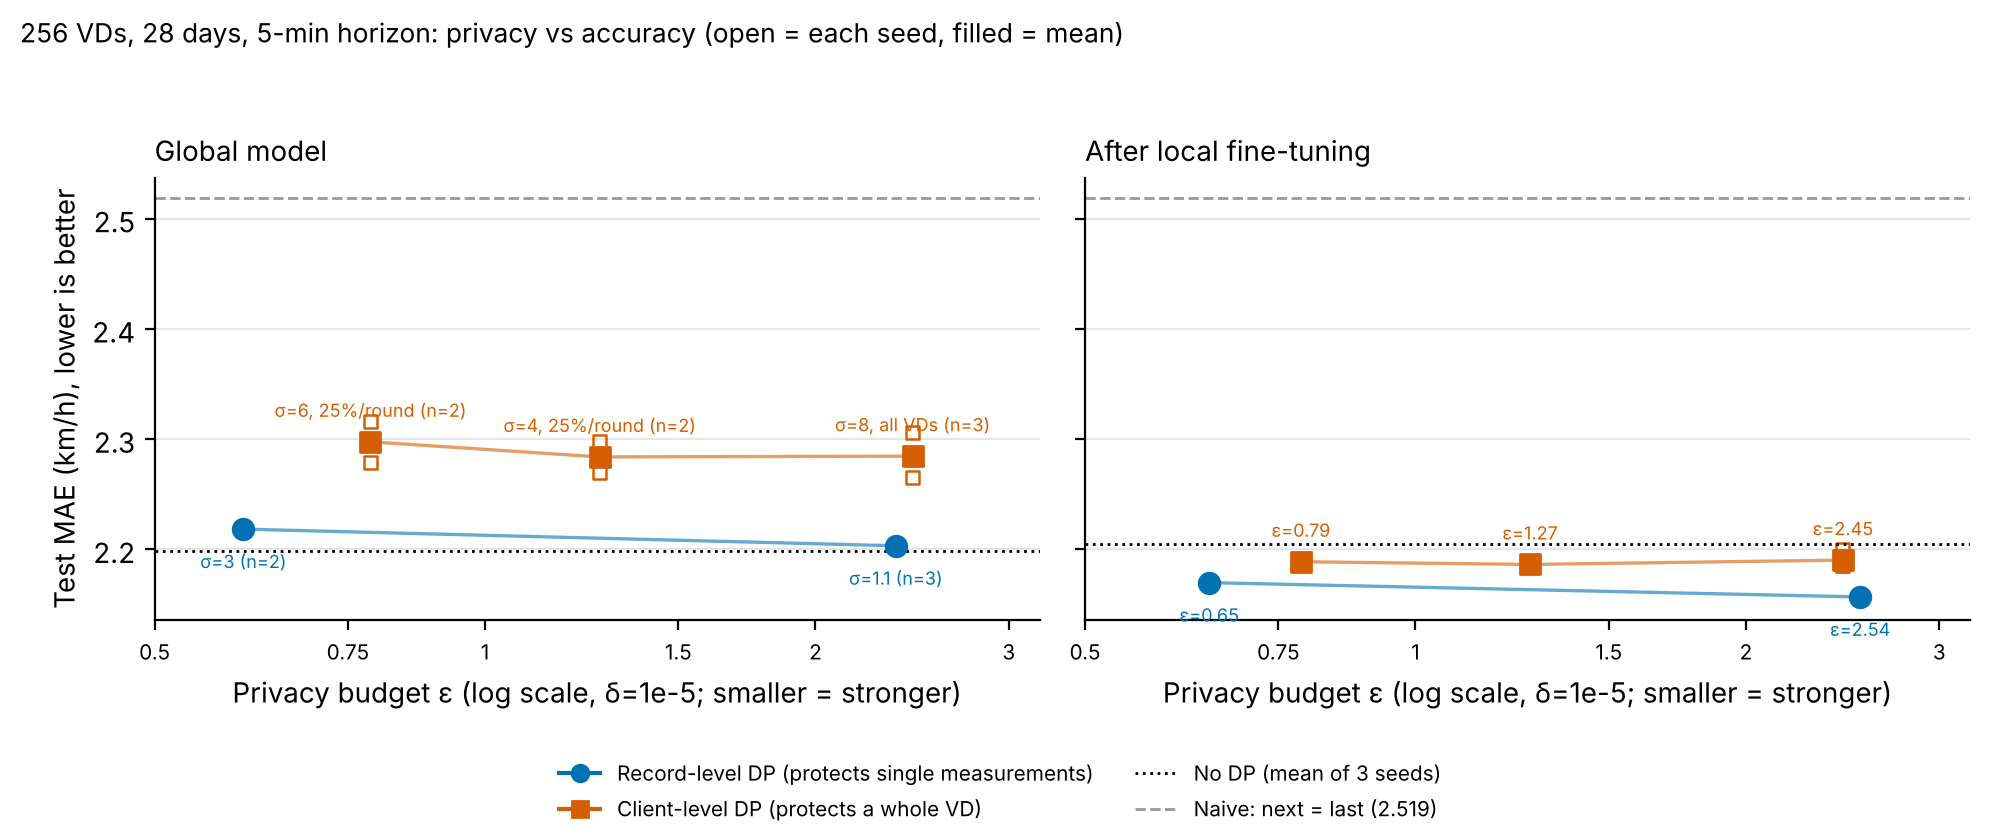
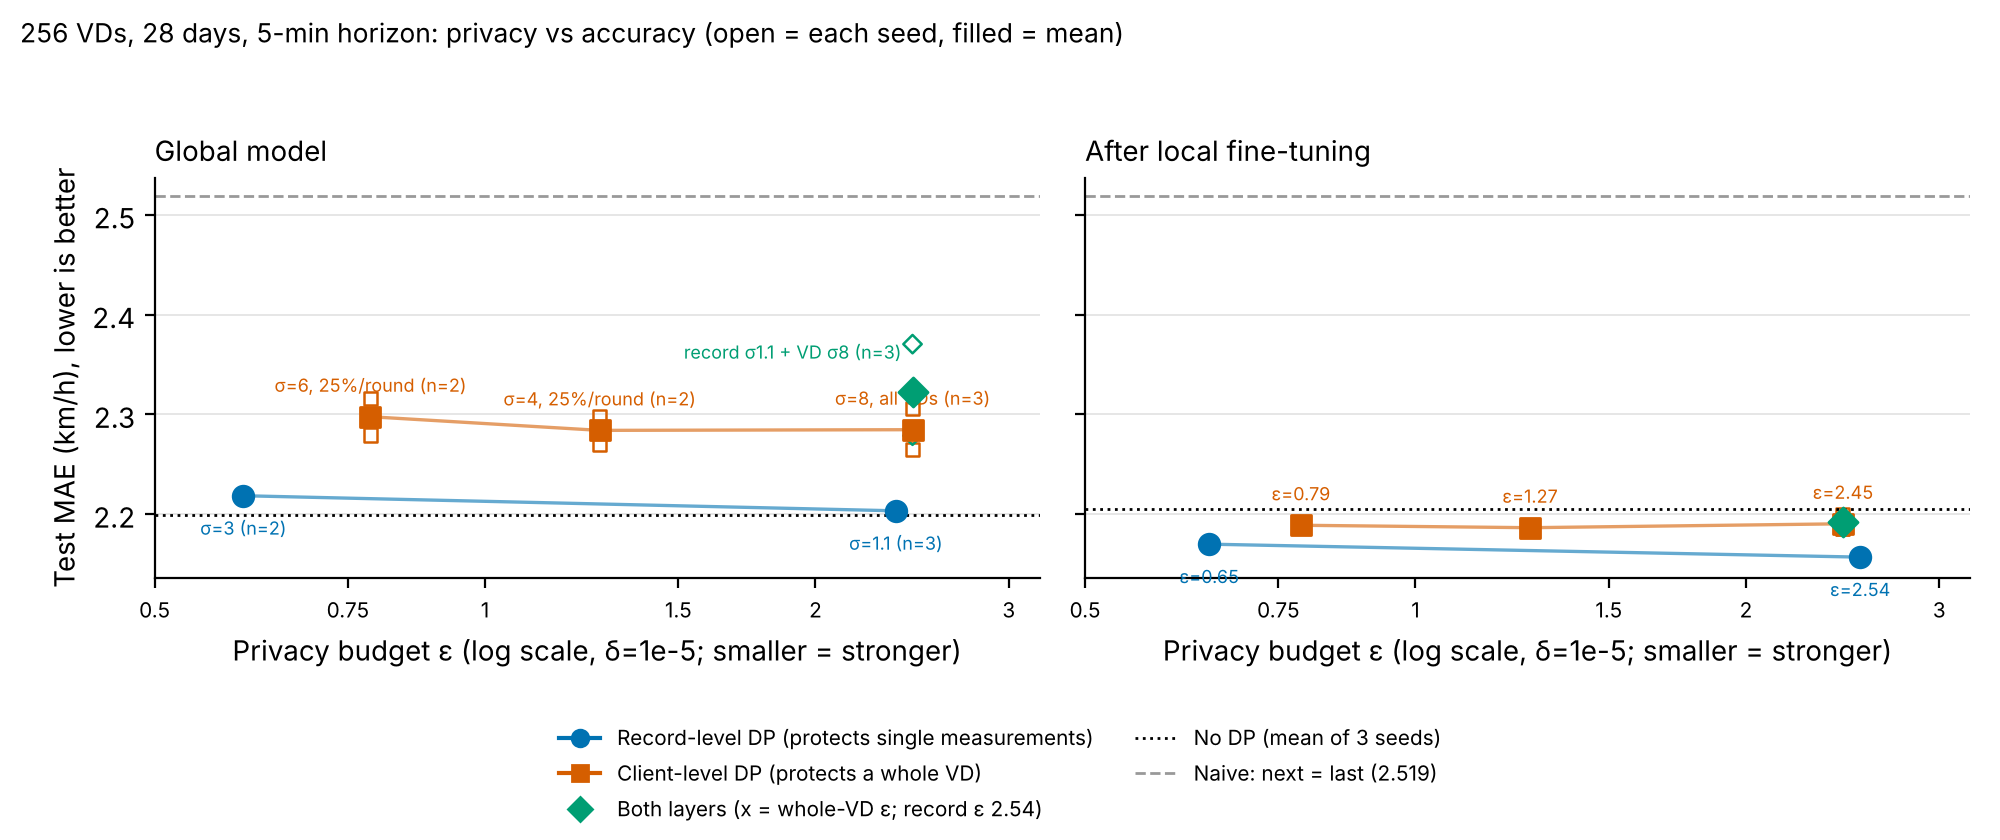
Figure: add both-layer point; README: 30-min both layers
Claude-Session: https://claude.ai/code/session_01EJ1mjjmKwMNR6cY38Rxgw7

Changed region(s): [[0.031, 0.2167, 0.992, 0.8357], [0.279, 0.8667, 0.558, 0.9905], [0.589, 0.8667, 0.713, 0.9905]]

diff --git a/scripts/plot_privacy_tradeoff.py b/scripts/plot_privacy_tradeoff.py
@@ -22,7 +22,7 @@ import matplotlib
 matplotlib.use("Agg")
 import matplotlib.pyplot as plt  # noqa: E402
 
-OKABE = {"record": "#0072B2", "client": "#D55E00", "nodp": "#000000", "naive": "#999999"}
+OKABE = {"record": "#0072B2", "client": "#D55E00", "both": "#009E73", "nodp": "#000000", "naive": "#999999"}
 
 # (類別, 標籤, [(batch, run 名稱前綴)])；所有 run 都是 256 VD、28 天、時段特徵、預測 5 分鐘後
 GROUPS = [
@@ -31,6 +31,8 @@ GROUPS = [
     ("client", "σ=8, all VDs", [("d256_cl", "cldp_sigma8"), ("d256s_cl", "cldp_sigma8_seed")]),
     ("client", "σ=4, 25%/round", [("d256_samp", "cldp_sigma4_seed")]),
     ("client", "σ=6, 25%/round", [("d256_samp6", "cldp_sigma6_seed")]),
+    # 兩層：record σ1.1＋client σ8（裁剪 0.2）；x 軸畫整個 VD 的 ε（2.45），record ε 另見圖說
+    ("both", "record σ1.1 + VD σ8", [("d256_bothfull", "cldp_sigma8"), ("d256_bothfull_s23", "cldp_sigma8_seed")]),
 ]
 NODP = [("d256", "nodp"), ("d256s", "nodp_seed2"), ("d256s3", "nodp")]
 
@@ -58,7 +60,7 @@ def collect(root: Path):
         if not rows:
             continue
         eps_g = _num(rows[0]["final_epsilon"])
-        eps_ft = _num(rows[0].get("finetuned_epsilon")) or eps_g
+        eps_ft = eps_g if kind == "both" else (_num(rows[0].get("finetuned_epsilon")) or eps_g)
         out.append({"kind": kind, "label": label, "n": len(rows), "eps": eps_g, "eps_ft": eps_ft,
                     "g": [_num(r["final_mae_kmh"]) for r in rows],
                     "ft": [_num(r["finetuned_mae_kmh"]) for r in rows],
@@ -70,11 +72,11 @@ def collect(root: Path):
 
 def plot(groups, nodp, out: Path):
     naive = groups[0]["naive"]
-    marker = {"record": "o", "client": "s"}
+    marker = {"record": "o", "client": "s", "both": "D"}
     fig, axes = plt.subplots(1, 2, figsize=(10, 4.2), dpi=200, sharey=True)
     for ax, key, epskey, title in [(axes[0], "g", "eps", "Global model"),
                                    (axes[1], "ft", "eps_ft", "After local fine-tuning")]:
-        for kind in ("record", "client"):
+        for kind in ("record", "client", "both"):
             gs = sorted((g for g in groups if g["kind"] == kind), key=lambda g: g[epskey])
             xs = [g[epskey] for g in gs]
             means = [statistics.fmean(v for v in g[key] if v is not None) for g in gs]
@@ -84,9 +86,12 @@ def plot(groups, nodp, out: Path):
                 ax.scatter([g[epskey]] * len(vals), vals, facecolors="none", edgecolors=OKABE[kind],
                            marker=marker[kind], s=22, linewidths=0.9, zorder=2)
                 ax.scatter([g[epskey]], [m], color=OKABE[kind], marker=marker[kind], s=55, zorder=3)
+                if kind == "both" and key == "ft":
+                    continue  # 和 client σ=8 同一個 ε，圖例已說明
                 ax.annotate(f"{g['label']} (n={len(vals)})" if key == "g" else f"ε={g[epskey]:.2f}",
-                            (g[epskey], m), textcoords="offset points", ha="center",
-                            xytext=(0, -14 if kind == "record" else 9), fontsize=6.5, color=OKABE[kind])
+                            (g[epskey], m), textcoords="offset points", ha="right" if kind == "both" else "center",
+                            xytext={"record": (0, -14), "client": (0, 9), "both": (-4, 12)}[kind],
+                            fontsize=6.5, color=OKABE[kind])
         nd = [v for v in nodp[key] if v is not None]
         if nd:
             ax.axhline(statistics.fmean(nd), color=OKABE["nodp"], linestyle=":", linewidth=1,
@@ -105,13 +110,15 @@ def plot(groups, nodp, out: Path):
     handles = [plt.Line2D([], [], color=OKABE["record"], marker="o", linestyle="-",
                           label="Record-level DP (protects single measurements)"),
                plt.Line2D([], [], color=OKABE["client"], marker="s", linestyle="-",
-                          label="Client-level DP (protects a whole VD)")]
+                          label="Client-level DP (protects a whole VD)"),
+               plt.Line2D([], [], color=OKABE["both"], marker="D", linestyle="",
+                          label="Both layers (x = whole-VD ε; record ε 2.54)")]
     h2, l2 = axes[0].get_legend_handles_labels()
     fig.legend(handles + h2, [h.get_label() for h in handles] + l2, loc="lower center", ncol=2,
                frameon=False, fontsize=7.5)
     fig.suptitle("256 VDs, 28 days, 5-min horizon: privacy vs accuracy (open = each seed, filled = mean)",
                  fontsize=9.5, x=0.01, ha="left")
-    fig.tight_layout(rect=(0, 0.12, 1, 0.95))
+    fig.tight_layout(rect=(0, 0.17, 1, 0.95))
     fig.savefig(out)
     plt.close(fig)
 

diff --git a/README.md b/README.md
@@ -367,13 +367,14 @@ DP 為 2 seed 平均：record σ1.1 全域 3.079（10.7%）、微調後 2.977（
 微調後 2.237；裁剪 0.2 → 2.871／2.211（12.2%）。結論：每輪只抽 25% 時兩層一起保護的全域模型贏不了 naive，
 但各 VD 微調後仍比 naive 好 11～12%。全部 VD 參與（client σ8，整個 VD ε2.45）＋record σ1.1（含微調 ε2.54）、client 裁剪 0.2（3 seed）：
 全域 2.323 ± 0.046（7.8%）、微調後 2.192 ± 0.004（13.0%），兩層保護都在時全域模型仍贏 naive（128 個 VD 時是 2.263，好 7.1%）。
+同設定預測 30 分鐘後（1 seed，naive 3.447）：全域 3.195（7.3%）、微調後 3.024（12.3%）。
 （每輪只抽 25% 的 VD，所以每個 VD 實際訓練的輪數少，record-level ε 含微調只有 0.48～0.50。）
 
 **隱私與準確度取捨圖（256 個 VD）**：`python scripts/plot_privacy_tradeoff.py results docs/figures/privacy_tradeoff_256.png`
 
 ![256 VD privacy vs accuracy](docs/figures/privacy_tradeoff_256.png)
 
-空心點是每個 seed，實心點是平均；顏色加形狀區分 record-level（藍圓）和 client-level（橘方）。
+空心點是每個 seed，實心點是平均；顏色加形狀區分 record-level（藍圓）、client-level（橘方）和兩層一起（綠菱形，x 軸為整個 VD 的 ε 2.45，record ε 2.54）。
 
 **seed 配對檢定**（`scripts/seed_stats.py`：配對 t 檢定＋Wilcoxon 精確檢定、效果量 d_z、平均差的 95% CI；
 抽樣單位是 seed，n 很小，僅供參考）。28 天、8 個 VD、5 seed，微調後 MAE，加入時段特徵前→後：
